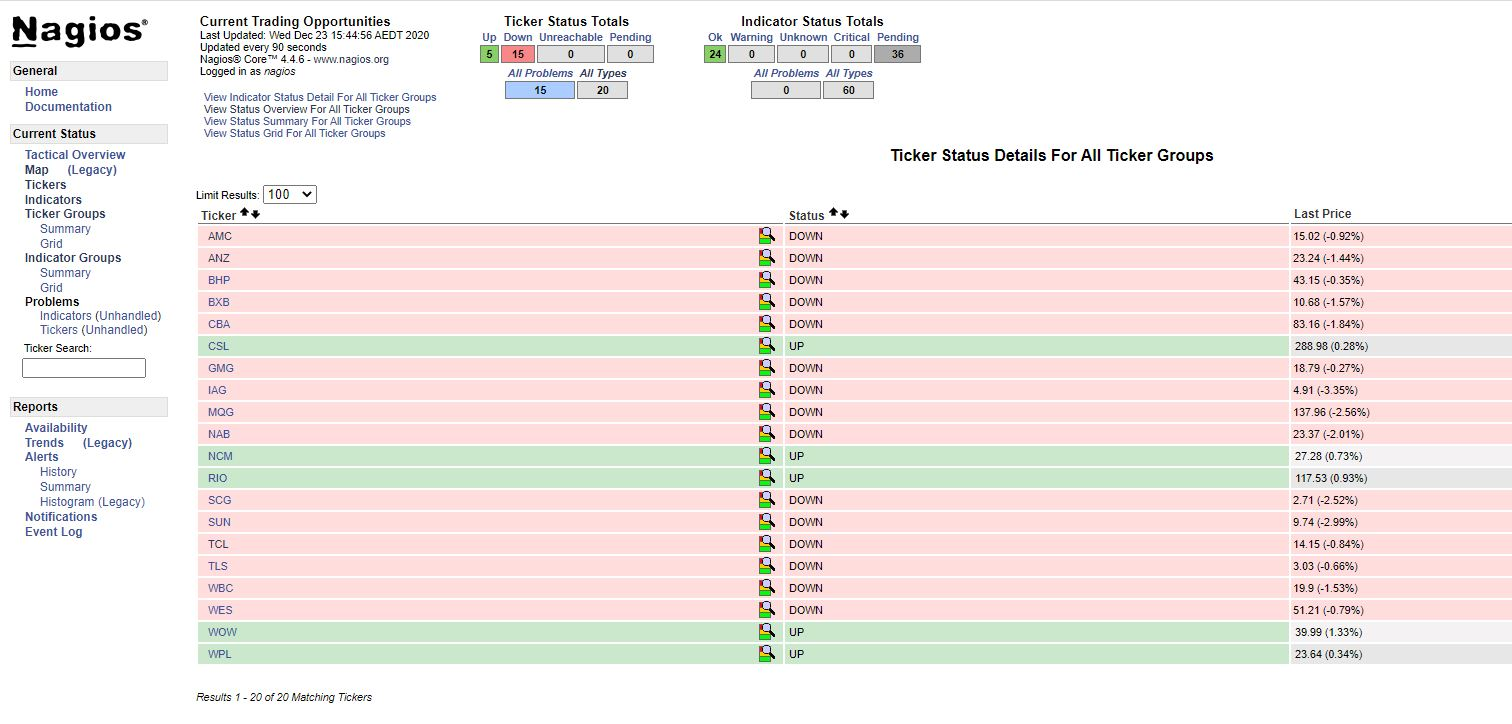
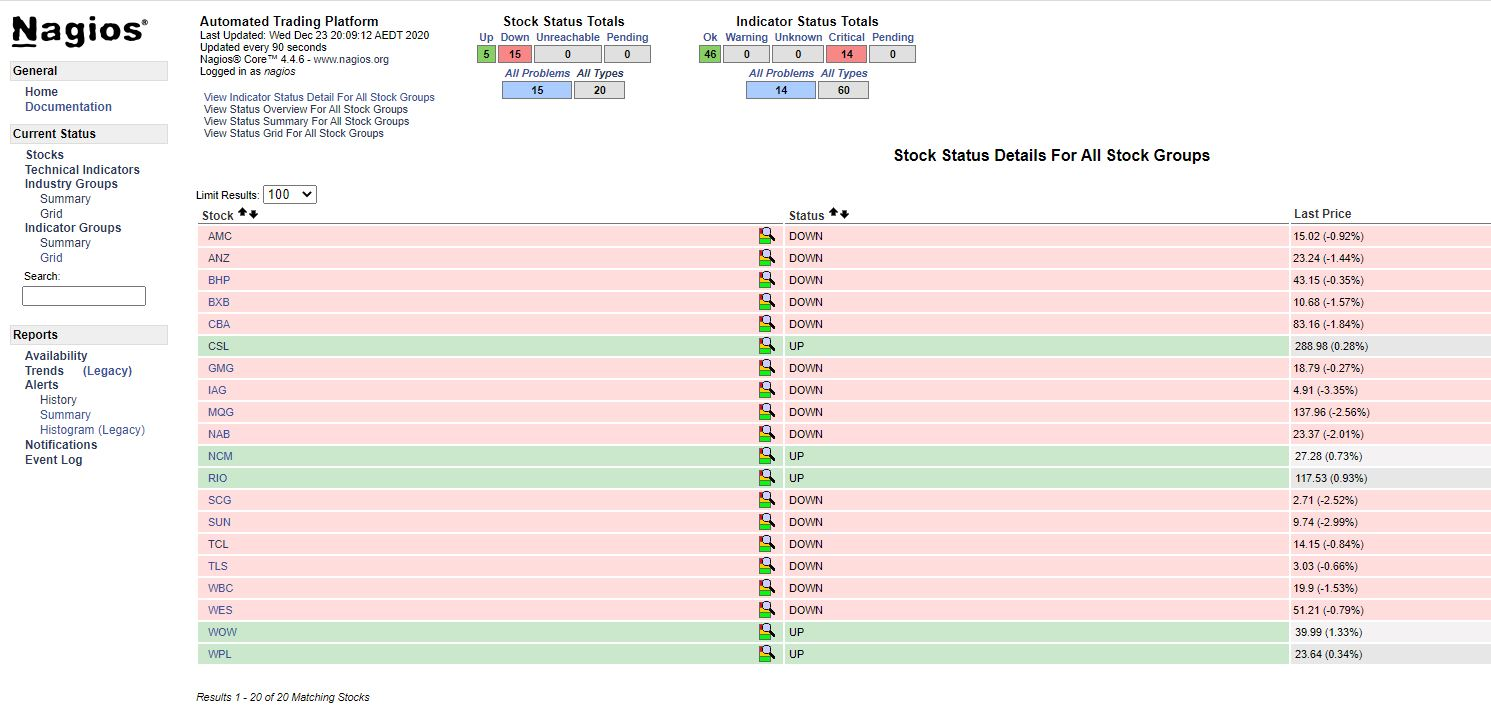
updated some code, and refreshed the screenshot

diff --git a/automatedtradingplatform/files/ui_patches/side.php b/automatedtradingplatform/files/ui_patches/side.php
@@ -35,11 +35,6 @@ $link_target = 'main';
 	<div class="navsectiontitle">Current Status</div>
 	<div class="navsectionlinks">
 		<ul class="navsectionlinks">
-			<li><a href="<?php echo $cfg["cgi_base_url"];?>/tac.cgi" target="<?php echo $link_target;?>">Tactical Overview</a></li>
-			<li>
-				<a href="map.php?host=all" target="<?php echo $link_target;?>">Map</a>
-				<a href="<?php echo $cfg["cgi_base_url"];?>/statusmap.cgi?host=all" target="<?php echo $link_target;?>">(Legacy)</a>
-			</li>
 			<li><a href="<?php echo $cfg["cgi_base_url"];?>/status.cgi?hostgroup=all&amp;style=hostdetail" target="<?php echo $link_target;?>">Stocks</a></li>
 			<li><a href="<?php echo $cfg["cgi_base_url"];?>/status.cgi?host=all" target="<?php echo $link_target;?>">Technical Indicators</a></li>
 			<li>
@@ -54,16 +49,6 @@ $link_target = 'main';
 				<ul>
 					<li><a href="<?php echo $cfg["cgi_base_url"];?>/status.cgi?servicegroup=all&amp;style=summary" target="<?php echo $link_target;?>">Summary</a></li>
 					<li><a href="<?php echo $cfg["cgi_base_url"];?>/status.cgi?servicegroup=all&amp;style=grid" target="<?php echo $link_target;?>">Grid</a></li>
-				</ul>
-			</li>
-		</ul>
-	</div>
-	<div class="navsectionheader">
-		<ul>
-			<li>Problems
-				<ul>
-					<li><a href="<?php echo $cfg["cgi_base_url"];?>/status.cgi?host=all&amp;servicestatustypes=28" target="<?php echo $link_target;?>">Technical Indicators</a> (<a href="<?php echo $cfg["cgi_base_url"];?>/status.cgi?host=all&amp;type=detail&amp;hoststatustypes=3&amp;serviceprops=10&amp;servicestatustypes=28" target="<?php echo $link_target;?>">Unhandled</a>)</li>
-					<li><a href="<?php echo $cfg["cgi_base_url"];?>/status.cgi?hostgroup=all&amp;style=hostdetail&amp;hoststatustypes=12" target="<?php echo $link_target;?>">Stocks</a> (<a href="<?php echo $cfg["cgi_base_url"];?>/status.cgi?hostgroup=all&amp;style=hostdetail&amp;hoststatustypes=12&amp;hostprops=42" target="<?php echo $link_target;?>">Unhandled</a>)</li>
 				</ul>
 			</li>
 		</ul>

diff --git a/automatedtradingplatform/files/ui_patches/status.c b/automatedtradingplatform/files/ui_patches/status.c
@@ -313,7 +313,7 @@ int main(void) {
 		printf("<td align=left valign=top width=33%%>\n");
 
 		/* info table */
-		display_info_table("Current Trading Opportunities", TRUE, &current_authdata);
+		display_info_table("Automated Trading Platform", TRUE, &current_authdata);
 
 		printf("<table class='linkBox'>\n");
 		printf("<tr><td class='linkBox'>\n");
@@ -3973,9 +3973,9 @@ void show_hostgroup_summaries(void) {
 
 	printf("<div align='center' class='statusTitle'>Status Summary For ");
 	if(show_all_hostgroups == TRUE)
-		printf("All Host Groups");
+		printf("All Industry Groups");
 	else
-		printf("Host Group '%s'", hostgroup_name);
+		printf("Industry Group '%s'", hostgroup_name);
 	printf("</div>\n");
 
 	printf("<br>");
@@ -3994,7 +3994,7 @@ void show_hostgroup_summaries(void) {
 	printf("<table class='status'>\n");
 
 	printf("<tr>\n");
-	printf("<th class='status'>Host Group</th><th class='status'>Stock Status Summary</th><th class='status'>Indicator Status Summary</th>\n");
+	printf("<th class='status'>Industry Group</th><th class='status'>Stock Status Summary</th><th class='status'>Indicator Status Summary</th>\n");
 	printf("</tr>\n");
 
 	/* display status summary for all hostgroups */
